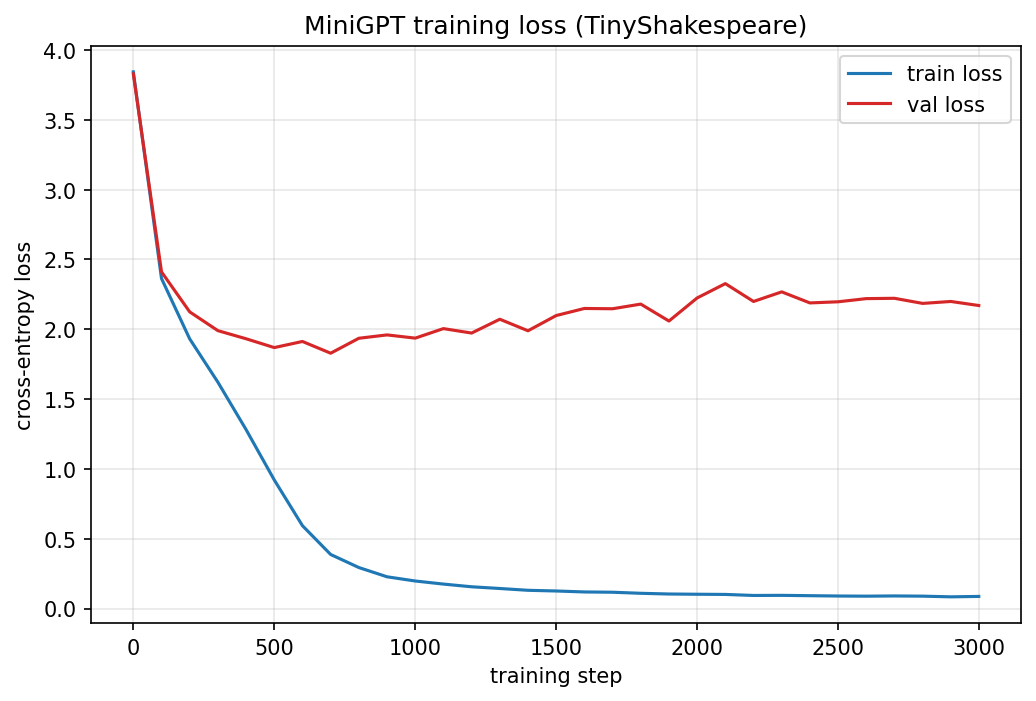
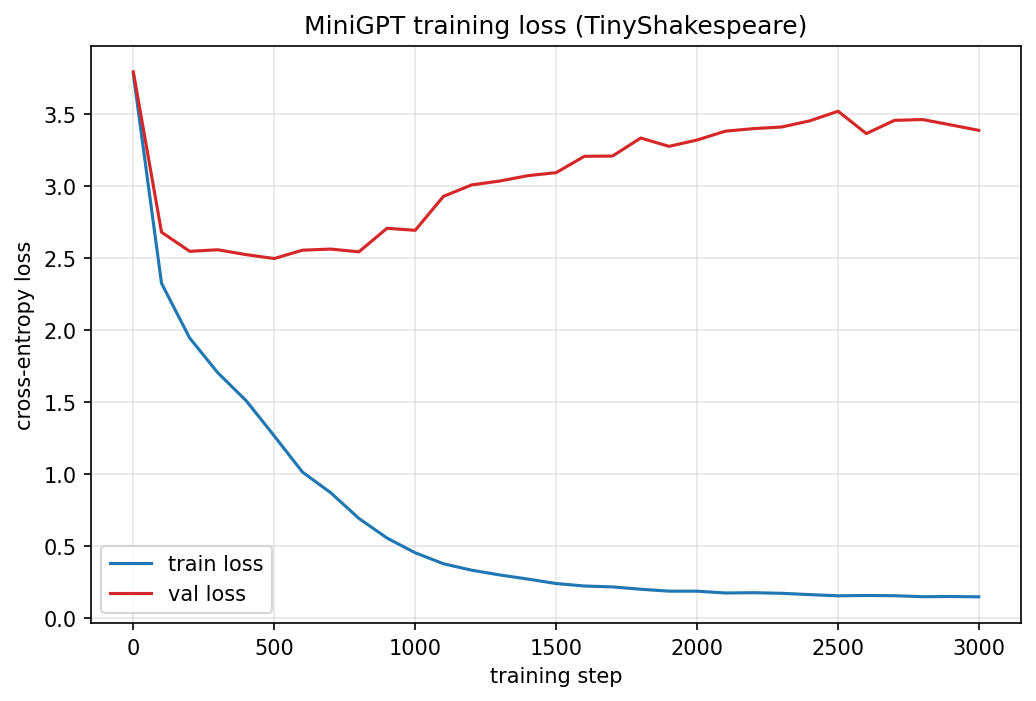
Add terminal chat REPL (chat.py) with streaming output; update README and requirements

diff --git a/chat.py b/chat.py
@@ -1,0 +1,147 @@
+#Usage: python chat.py --checkpoint checkpoints/model.pt --max-new-tokens 400
+import argparse
+from pathlib import Path
+
+import torch
+from rich.console import Console
+from rich.live import Live
+from rich.panel import Panel
+from rich.prompt import Prompt
+from rich.rule import Rule
+from rich.text import Text
+
+from gpt.utils import get_device, load_checkpoint
+
+console = Console()
+
+YOU_STYLE = "cyan"
+GPT_STYLE = "magenta"
+
+HELP_TEXT = """\
+commands:
+  /help   show this help
+  /clear  wipe the conversation and start fresh
+  /exit   leave the chat (also Ctrl+C at the prompt, Ctrl+D)
+"""
+
+
+def parse_args() -> argparse.Namespace:
+    parser = argparse.ArgumentParser(
+        description="Chat with a trained MiniGPT checkpoint in the terminal."
+    )
+    parser.add_argument(
+        "--checkpoint",
+        type=str,
+        default="checkpoints/model.pt",
+        help="Path to a checkpoint file written by train.py.",
+    )
+    parser.add_argument(
+        "--max-new-tokens",
+        type=int,
+        default=40,
+        help="How many tokens (characters) the model may generate per turn.",
+    )
+    return parser.parse_args()
+
+
+def stream_sample(
+    model,
+    tokenizer,
+    device: torch.device,
+    context: str,
+    max_new_tokens: int,
+):
+    tokens = tokenizer.encode(context)
+    if not tokens:
+        tokens = tokenizer.encode("\n") or [0]  # start from a newline, like generate.py
+    index = torch.tensor([tokens], dtype=torch.long, device=device)
+
+    for _ in range(max_new_tokens):
+        index = model.generate(index, 1)  # sample exactly one character
+        yield tokenizer.decode(index[0, -1:].tolist())
+
+
+def chat_turn(
+    model,
+    tokenizer,
+    device: torch.device,
+    history: str,
+    message: str,
+    max_new_tokens: int,
+) -> str:
+    text = ""
+    with Live(
+        Panel(Text("", no_wrap=False), title="minigpt", border_style=GPT_STYLE),
+        console=console,
+        refresh_per_second=20,
+    ) as live:
+        try:
+            for char in stream_sample(model, tokenizer, device, history + message, max_new_tokens):
+                text += char
+                live.update(
+                    Panel(Text(text, no_wrap=False), title="minigpt", border_style=GPT_STYLE)
+                )
+        except KeyboardInterrupt:
+            pass  # keep whatever was generated so far
+    return text
+
+
+def main() -> None:
+    args = parse_args()
+
+    if not Path(args.checkpoint).exists():
+        raise SystemExit(
+            f"Checkpoint not found: {args.checkpoint}\n"
+            "Train a model first, e.g.: python train.py --data data/shakespeare.txt"
+        )
+
+    device = get_device()
+    console.print(f"Loading checkpoint: {args.checkpoint}")
+    model, config, tokenizer, payload = load_checkpoint(args.checkpoint, device)
+
+    console.print(
+        Panel(
+            Text(
+                f"device: {device}\n"
+                f"trained for: {payload.get('iter', '?')} iterations\n"
+                f"context window: {config.block_size} characters\n"
+                f"per-turn limit: {args.max_new_tokens} characters\n\n"
+                "type /help for commands - this model continues text, it does not\n"
+                "follow instructions (it was trained on novels, not conversations).",
+                no_wrap=False,
+            ),
+            title="MiniGPT chat",
+            border_style="bright_black",
+        )
+    )
+
+    history = ""
+    while True:
+        console.print(Rule(style="dim"))
+        try:
+            message = Prompt.ask("[bold cyan]you[/]").strip()
+        except (KeyboardInterrupt, EOFError):
+            break
+
+        if not message:
+            continue
+        if message.startswith("/"):
+            command = message.lower()
+            if command in ("/exit", "/quit"):
+                break
+            if command == "/clear":
+                history = ""
+                console.print("[dim]conversation cleared[/]")
+                continue
+            console.print(HELP_TEXT)
+            continue
+
+        console.print()
+        reply = chat_turn(model, tokenizer, device, history, message, args.max_new_tokens)
+        history += message + reply  # the model sees plain text, not roles
+
+    console.print("[dim]bye[/]")
+
+
+if __name__ == "__main__":
+    main()

diff --git a/gpt/dataset.py b/gpt/dataset.py
@@ -33,7 +33,7 @@ class CharTokenizer:
     def from_dict(cls, data: dict[str, list[str]]) -> "CharTokenizer":
         return cls( data["chars"] ) 
 
-    @classmethod
+    @classmethod 
     def from_text(cls, text: str) -> "CharTokenizer":
         return cls( sorted(set(text)) )
 

diff --git a/train.py b/train.py
@@ -1,4 +1,4 @@
-#Usage: python train.py --data data/shakespeare.txt --max-iters 10000 --resume
+#Usage: python train.py --data data --max-iters 10000 --resume
 
 import argparse
 import json

diff --git a/README.md b/README.md
@@ -87,6 +87,18 @@ python generate.py --checkpoint checkpoints/model.pt --prompt "It was a bright" 
 An empty prompt starts generation from a single newline character (nanoGPT convention).
 The character-level tokenizer is stored inside the checkpoint, so decoding always works.
 
+## Chat
+
+```bash
+python chat.py
+```
+
+A terminal chat REPL around the checkpoint: type a message, and the reply streams
+into the terminal one character at a time inside a chat bubble. The model is a plain
+character-level LM, so it continues the conversation text rather than following
+instructions. Commands: `/help`, `/clear`, `/exit`. Options: `--checkpoint`,
+`--max-new-tokens` (per-turn generation limit, default 400).
+
 ## Configuration
 
 All hyperparameters live in `gpt/config.py` (`GPTConfig` dataclass — the single source
